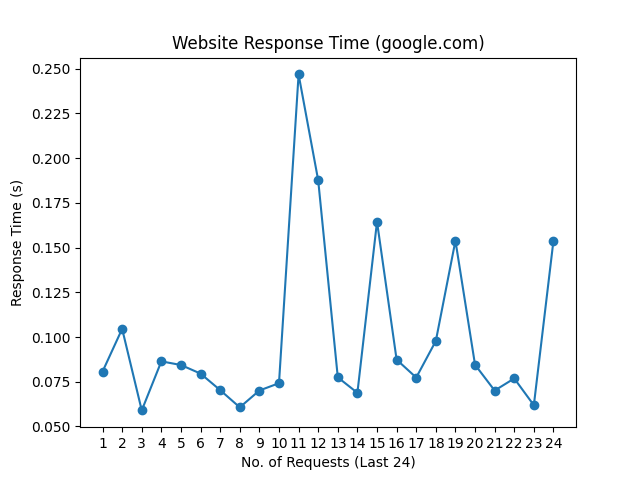
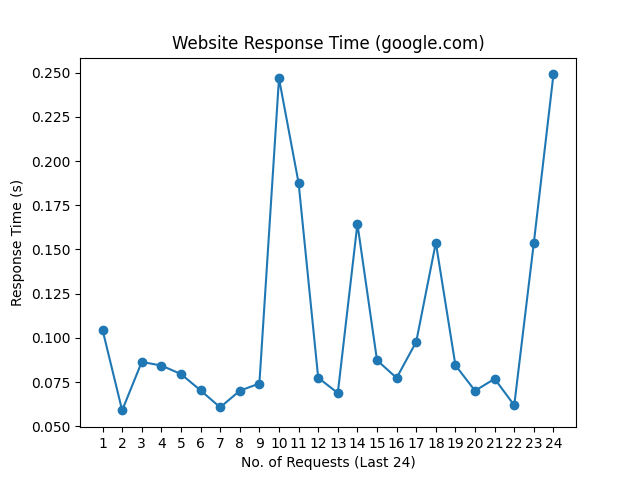
update README.md, history and graph

diff --git a/README.md b/README.md
@@ -1,10 +1,10 @@
 # Web Monitoring
 
-Last Checked: 05/08/2024 08:18
+Last Checked: 06/08/2024 08:17
 
 | Website | Response Time (s) | Status | Avg Uptime (%) |
 |---------|-------------------|--------|----------------|
 | www.thiswebsiteisdown.net | 0 <br> <img src="graph/thiswebsiteisdown.net.png" alt="Graph" width="200" height="200">  | ❌ Down | 0.00 |
-| www.netflix.com | 0.491409 <br> <img src="graph/netflix.com.png" alt="Graph" width="200" height="200">  | ✅ Up | 100.00 |
-| www.google.com | 0.153862 <br> <img src="graph/google.com.png" alt="Graph" width="200" height="200">  | ✅ Up | 100.00 |
-| www.facebook.com | 0.599187 <br> <img src="graph/facebook.com.png" alt="Graph" width="200" height="200">  | ✅ Up | 100.00 |
+| www.netflix.com | 0.566029 <br> <img src="graph/netflix.com.png" alt="Graph" width="200" height="200">  | ✅ Up | 100.00 |
+| www.google.com | 0.249026 <br> <img src="graph/google.com.png" alt="Graph" width="200" height="200">  | ✅ Up | 100.00 |
+| www.facebook.com | 0.602058 <br> <img src="graph/facebook.com.png" alt="Graph" width="200" height="200">  | ✅ Up | 100.00 |
